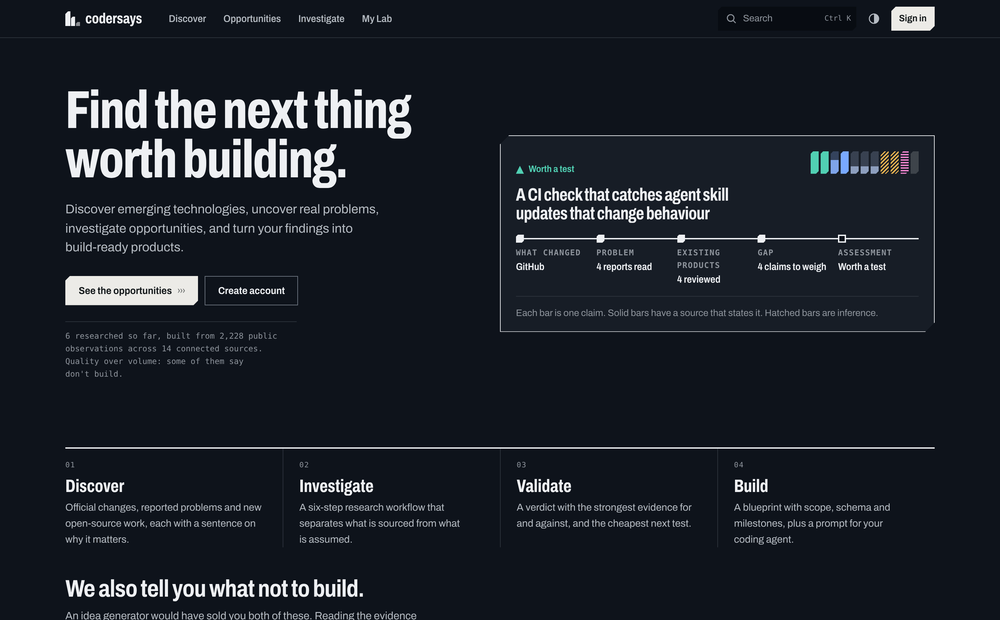
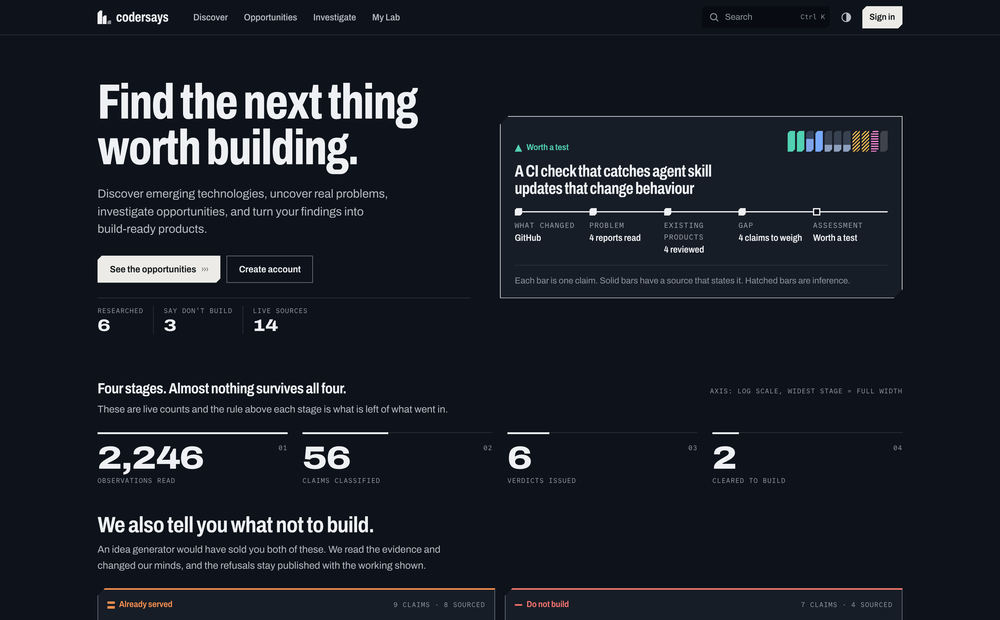
Refresh the CoderSays card

diff --git a/README.md b/README.md
@@ -18,8 +18,8 @@ I'm Mahan, founder of GreenTouch, a cleantech startup. I study computer science 
     <td width="50%" valign="top">
       <a href="https://codersays.com"><img alt="CoderSays: the opportunity 'A CI check that catches agent skill updates that change behaviour', marked worth a test, with a bar per claim and the steps from what changed through to the assessment" src="assets/card-codersays.png" width="100%"></a>
       <h3><a href="https://codersays.com">CoderSays</a></h3>
-      <p>Research for deciding what to build next. Official changes, reported problems and new open-source work go through a six-step investigation that keeps sourced claims apart from inference. Each one ends in a verdict, the cheapest test to run next, and a build plan.</p>
-      <p><sub><b>Live</b> · 6 opportunities researched from 2,228 public observations across 14 connected sources</sub></p>
+      <p>Research for deciding what to build next. Changelogs and public code go in; claims come out tagged by whether a source states them or they are inference. Each opportunity ends in a verdict, and most of those are refusals, published with the working shown.</p>
+      <p><sub><b>Live</b> · 2,246 observations read · 56 claims classified · 6 verdicts · 2 cleared to build</sub></p>
     </td>
     <td width="50%" valign="top">
       <a href="https://github.com/Mahan-Imanian/stride"><img alt="Stride: A* and Dijkstra run on the same grid; both find a path of the same cost, A* after expanding far fewer cells" src="assets/card-stride.png" width="100%"></a>
